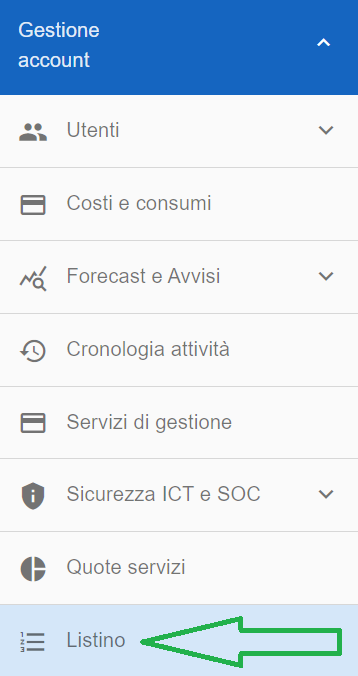
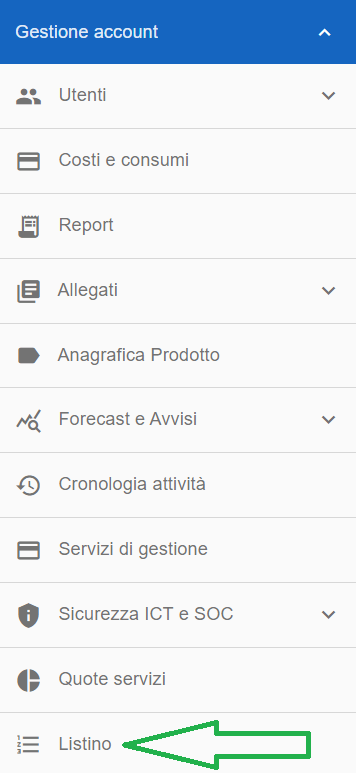
250130commit.2

diff --git a/docs/Come_fare_per/40.1_Consultare_costi_e_consumi.rst b/docs/Come_fare_per/40.1_Consultare_costi_e_consumi.rst
@@ -22,44 +22,6 @@ dei servizi acquistati e istanziati nell'account.
 
 |
 
-E' possibile scaricare il report dei consumi mensili nel formato  **Pdf** e **CSV**, cliccando l'icona relativa
-
-.. image:: img/Consumi_Report.png
-
-|
-
-Il file **Pdf Sintesi** e il file **CSV Sintesi** riportano mensilmente i costi di ciascun servizio istanziato, riferito alla singola componente
-
-.. image:: img/40.1PDFsintesi.png
-.. image:: img/40.1CSVsintesi.png
-
-|
-
-Nei file **Pdf Dettaglio** e **File CSV Dettaglio** invece è indicato giornalmente il consumo dei servizi per ogni suo elemento
-
-.. image:: img/40.1PDFdettaglio.png
-.. image:: img/40.1CSVdettaglio.png
-
-|
-
-Quando presente, la colonna **Rendiconto per servizio** riporta il report mensile dei costi e consumi per **ISTANZA di SERVIZIO** (cioè per singola VM e DBAAS)
-
-.. image:: img/40.1RendServizio1.png
-.. image:: img/40.1RendServizio2.png
-
-|
-
-Il **Listino** è visibile attraverso il menu posto alla
-sinistra dello schermo. Cliccando sulla label **Listino**
-sotto la label **Gestione account**
-
-.. image:: img/Listino_innesco2.png
-
-Il sistema presenterà nella parte destra del video il **Listino applicato all'Account**:
-
-.. image:: img/40.0_ListinoDx.png
- 
-|
 
 **Master di Division**
 

diff --git a/docs/Come_fare_per/40.15_Report(Gestione_account_MA).rst b/docs/Come_fare_per/40.15_Report(Gestione_account_MA).rst
@@ -1,0 +1,39 @@
+
+**Report**
+**********
+
+|
+
+**Master di Account**
+
+E' possibile scaricare il **report** dei consumi mensili nel formato  **Pdf** e **CSV**, cliccando l'icona relativa
+
+.. image:: img/Consumi_Report.png
+
+|
+
+Il file **Pdf Sintesi** e il file **CSV Sintesi** riportano mensilmente i costi di ciascun servizio istanziato, riferito alla singola componente
+
+.. image:: img/40.1PDFsintesi.png
+.. image:: img/40.1CSVsintesi.png
+
+|
+
+Nei file **Pdf Dettaglio** e **File CSV Dettaglio** invece è indicato giornalmente il consumo dei servizi per ogni suo elemento
+
+.. image:: img/40.1PDFdettaglio.png
+.. image:: img/40.1CSVdettaglio.png
+
+|
+
+Quando presente, la colonna **Rendiconto per servizio** riporta il report mensile dei costi e consumi per **ISTANZA di SERVIZIO** (cioè per singola VM e DBAAS)
+
+.. image:: img/40.1RendServizio1.png
+.. image:: img/40.1RendServizio2.png
+
+|
+
+Quando presente, il tab in alto in azzurro **In questa sezione è possibile generare i report per tag e per il mese indicati** 
+permette di filtrare i report, oltre che per periodo, anche per gli eventuali Tag che sono stati associati alle VM, Dbaas e Volumi
+
+.. image:: img/40.15ReportTag.png

diff --git a/docs/Come_fare_per/15.8_VPN.rst b/docs/Come_fare_per/15.8_VPN.rst
@@ -115,6 +115,15 @@ Altrimenti premere **FINE**
 
 |
 
+**Si chiede al richiedente della vpn di:**
+
+**- avvisare l'utente che riceverà un codice via sms sul numero a lui registrato**
+
+**- fornire all'utente il link per l'attivazione**
+
+**Tale codice deve essere utilizzato per l'attivazione del servizio seguendo le indicazioni presenti nel link.**
+**Tale link è anche presente nella sezione sottostante (la parte che recita "Hai ricevuto un SMS e/o email contenente il codice di attivazione del servizio VPN: clicca QUI" in caratteri rossi su sfondo giallo).**
+
 |
 
 **Guida all’inserimento del codice attivazione per la VPN** (*a cura dell’Utente del servizio VPN*)

diff --git a/docs/Come_fare_per/index_come_fare_per.rst b/docs/Come_fare_per/index_come_fare_per.rst
@@ -36,6 +36,7 @@ ad interagire con la piattaforma, attraverso il portale.
    33.0_Attivare_cifratura_dati.rst
    34.0_Procedure_ausilio_migrazione.rst
    40.1_Consultare_costi_e_consumi.rst
+   40.15_Report(Gestione_account_MA).rst
    42.0_Associazione_Listino_Account.rst
    42.5_Registrazione_Modifica_Listini.rst
    43.0_WBS.rst
